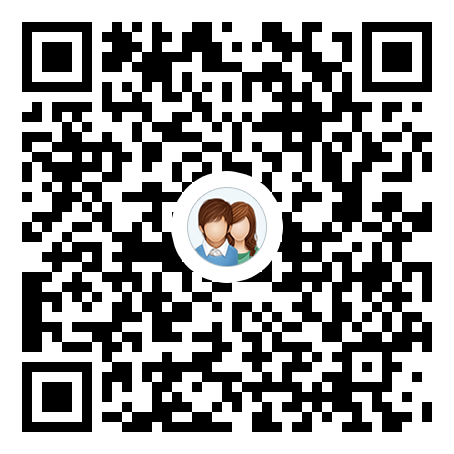
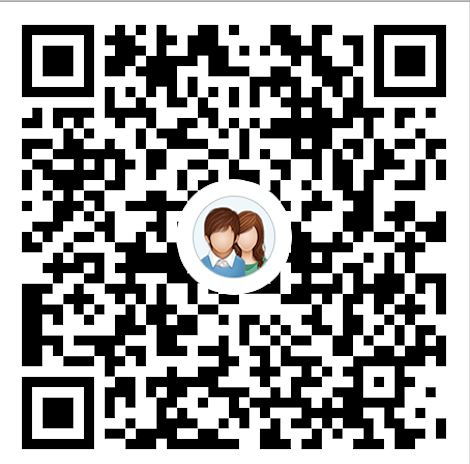
漏提配置文件

Changed region(s): [[0.0, 0.0, 1.0, 1.0]]

diff --git a/README.md b/README.md
@@ -211,6 +211,15 @@ API 界面:
 - guava
 - 等等
 
+## 请作者买瓶防脱发药水吧~~~ o(╥﹏╥)o
+
+<table>
+    <tr>
+        <td><img src="https://files.gitee.com/group1/M00/0A/9C/wKgCNF3kwLOATTggAAFfLNsVk9E916.png?token=dadd079522e7c15384ab404d912bdf85&ts=1575272628&attname=%E8%AF%B7%E4%BD%9C%E8%80%85%E4%B9%B0%E4%B8%AA%E9%98%B2%E8%84%B1%E5%8F%91%E8%8D%AF%E6%B0%B4%E5%90%A72.png&disposition=inline"/></td>
+        <td><img src="https://files.gitee.com/group1/M00/0A/9C/wKgCNF3kwKCASBaKAAFC71qEz_g636.png?token=e302962e6fb0cd8a1508adfe48e6b4ba&ts=1575272628&attname=%E8%AF%B7%E4%BD%9C%E8%80%85%E4%B9%B0%E4%B8%AA%E9%98%B2%E8%84%B1%E5%8F%91%E8%8D%AF%E6%B0%B4%E5%90%A71.png&disposition=inline"/></td>
+    </tr>
+</table>
+
 ## 写在最后：
     本项目正在开发阶段，由于码主白天要上班，只有晚上、周末能挤点时间来敲敲代码，所以进度可能比较慢，文档、注释也不齐全。 
     各位大侠就将就着看，但随着时间的推移。文档，注释，启动说明等码主我一定会补全的（对自己负责，也是对大家负责）。   
